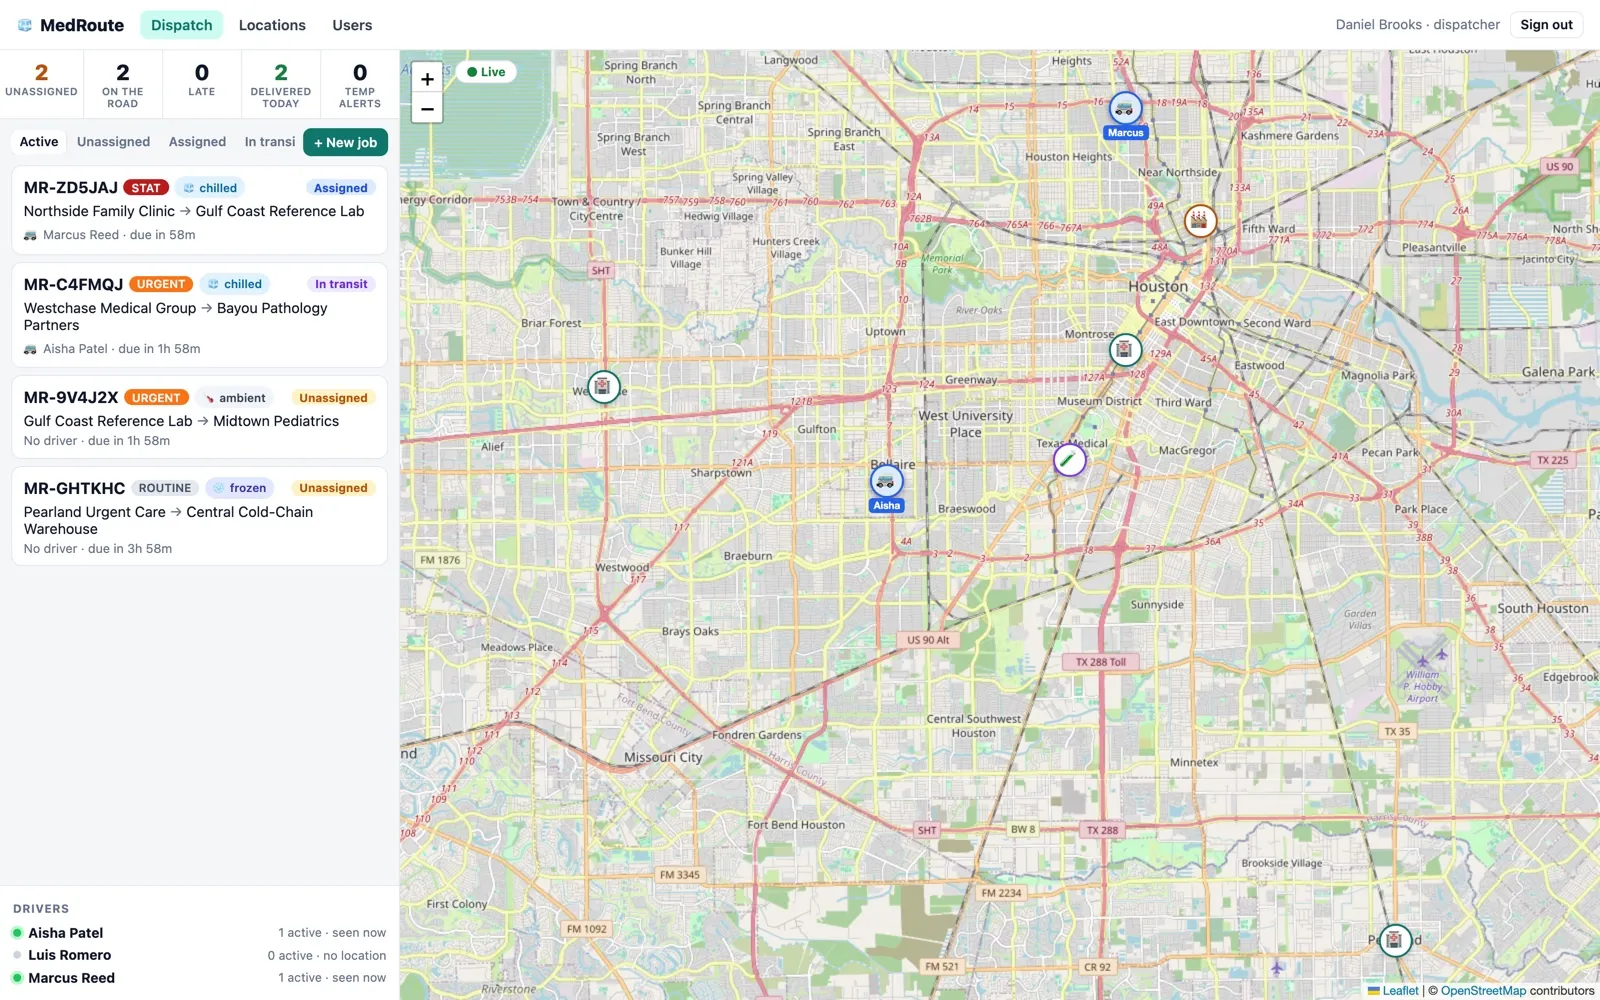
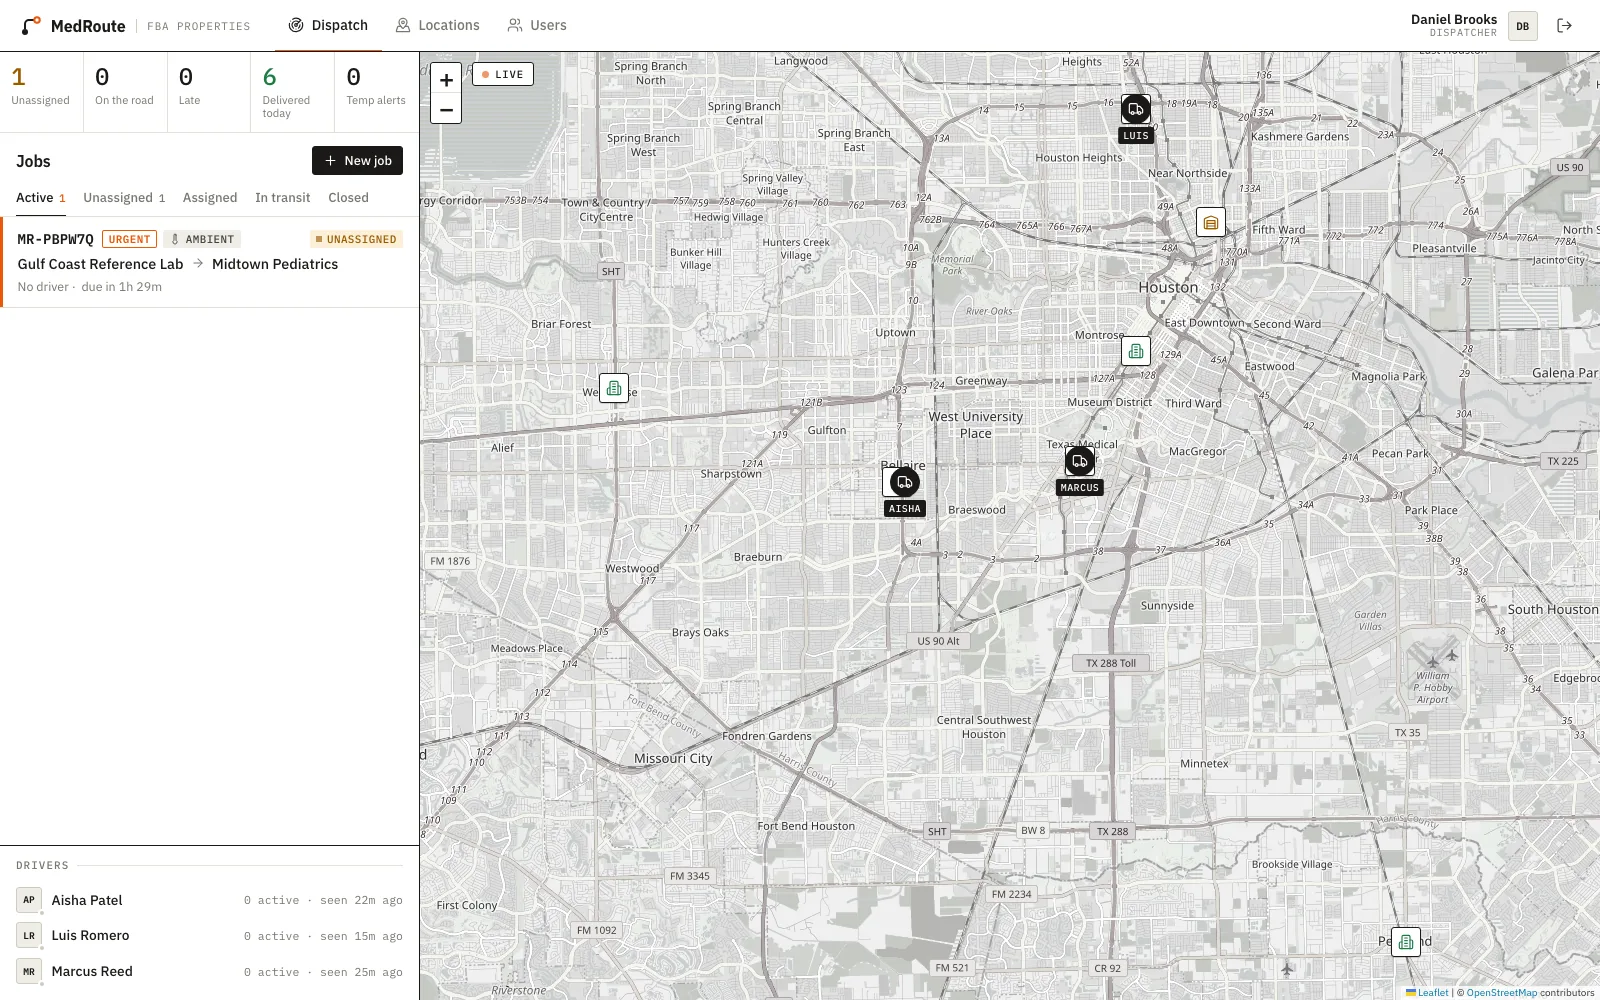
Remove unused components, assets, and dependencies; refactor inquiry API route with validation, email integration, and rate-limiting; add Playwright for end-to-end testing.

diff --git a/app/lib/seed-data.ts b/app/lib/seed-data.ts
@@ -54,8 +54,15 @@ export const projects: Project[] = [
       "MedRoute replaces phone calls, WhatsApp location pins and spreadsheets for a US healthcare logistics company that moves medical samples and cold packages between clinics, labs and a central warehouse. I built the MVP solo as a freelance project: a Spring Boot 3.5 / Java 21 API with STOMP WebSockets, a React 19 + TypeScript front end with Leaflet maps, and a Flyway-managed PostgreSQL schema — shipped on time as a single Docker image ready for staging and production.",
     tags: ["Java 21", "Spring Boot", "WebSocket", "React", "TypeScript", "PostgreSQL", "Leaflet", "Docker"],
     href: "",
-    image: "/medroute-dispatch.webp",
-    gallery: ["/medroute-driver.webp", "/medroute-tracking.webp"],
+    image: "/medroute-job.webp",
+    gallery: [
+      "/medroute-dispatch.webp",
+      "/medroute-tracking.webp",
+      "/medroute-driver.webp",
+      "/medroute-clinic.webp",
+      "/medroute-locations.webp",
+      "/medroute-new-job.webp",
+    ],
     linkNote: "Private client work — screenshots show fictional demo data. Happy to walk through the code and a live demo on a call.",
     role: "Solo Full-Stack Developer · Freelance",
     period: "Sep 2026",
@@ -92,6 +99,14 @@ export const projects: Project[] = [
     tags: ["Java 21", "Spring Boot", "React", "TypeScript", "PostgreSQL", "Stripe", "Chapa", "Prometheus"],
     href: "https://gogerami.com",
     image: "/gogerami.webp",
+    gallery: [
+      "/gogerami-home.webp",
+      "/gogerami-shop.webp",
+      "/gogerami-product.webp",
+      "/gogerami-packages.webp",
+      "/gogerami-services.webp",
+      "/gogerami-service-detail.webp",
+    ],
     links: [{ label: "Live site", href: "https://gogerami.com" }],
     role: "Lead Full-Stack Developer",
     period: "Nov 2025 – Present",

diff --git a/app/globals.css b/app/globals.css
@@ -73,6 +73,8 @@ html {
   scroll-behavior: smooth;
   /* Keep anchored sections clear of the sticky header. */
   scroll-padding-top: 4.5rem;
+  /* framer-motion's useScroll measures element offsets against the page, which must be non-static. */
+  position: relative;
 }
 
 body {
